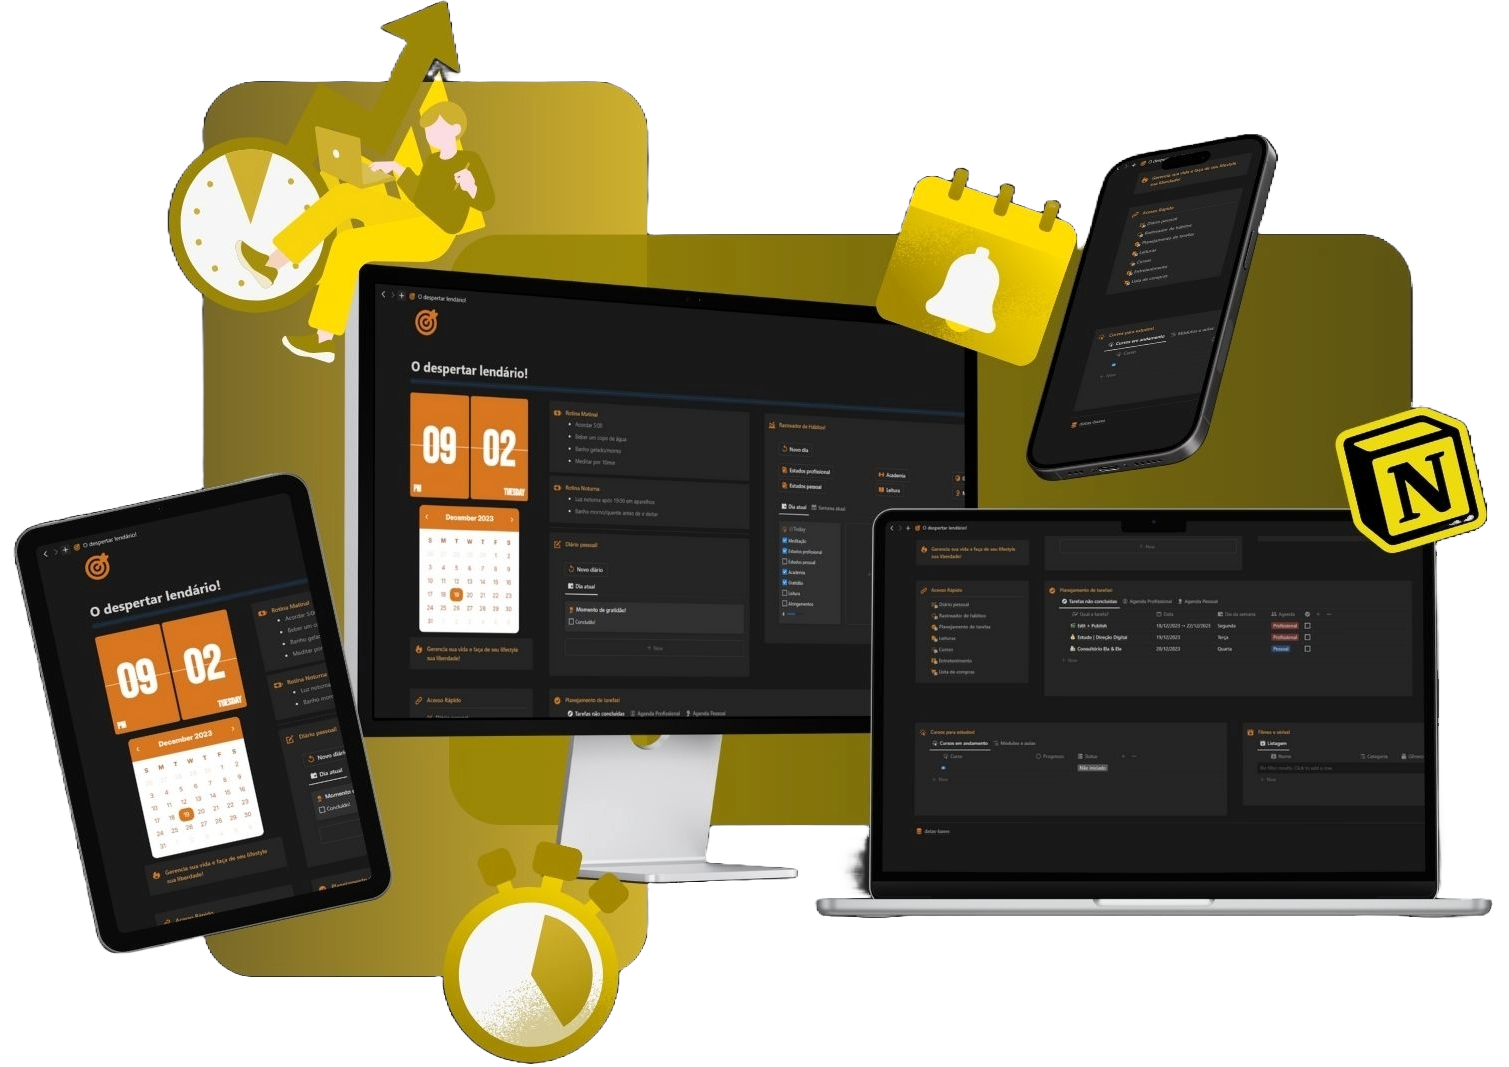
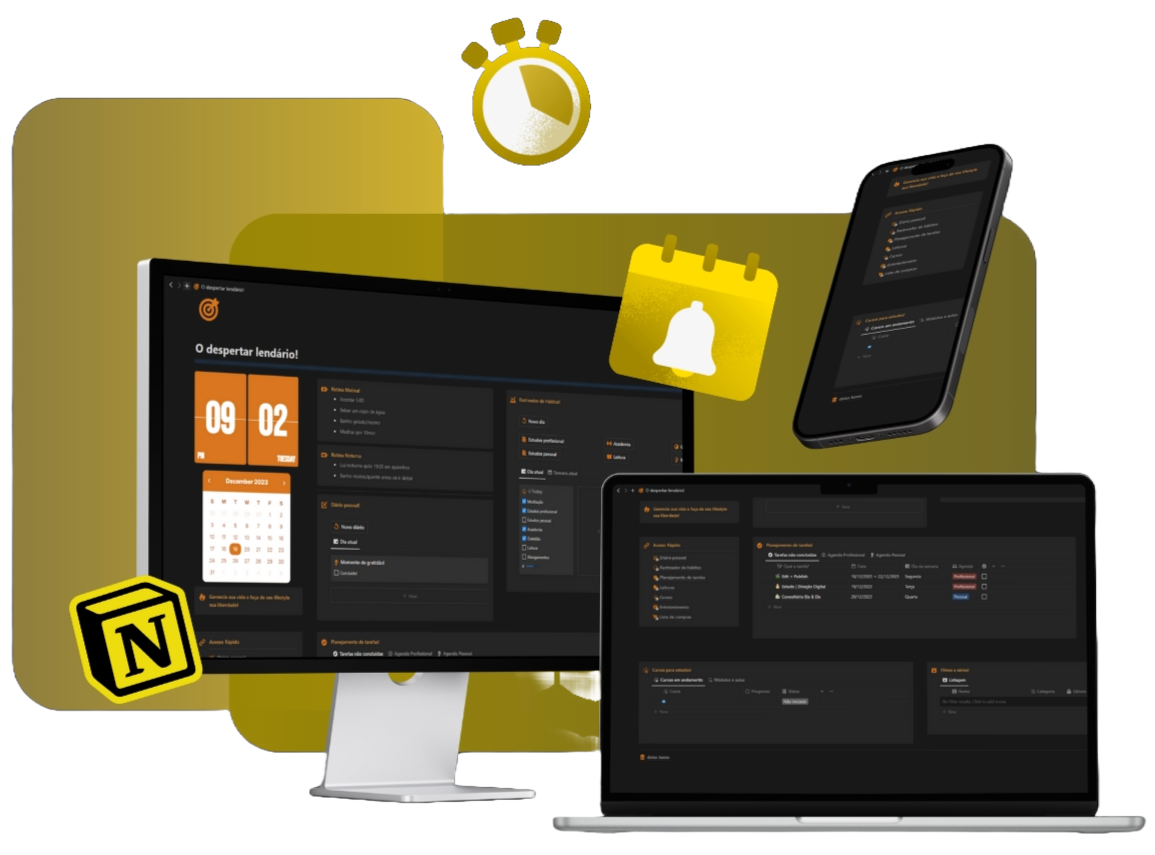
Updating illustrative image, and CTA button colors

diff --git a/src/components/about.tsx b/src/components/about.tsx
@@ -31,7 +31,7 @@ export const About = () => {
               <li><FaSquareCheck className="text-wellows mr-1 inline-block"/>Clareza de objetivos</li>
             </ul>
           </div>
-          <button className="bg-wellows hover:bg-golden-wellow duration-500 mt-10 px-20 h-12 rounded-xl text-white text-lg font-bold">QUERO ACESSAR AGORA!</button>
+          <button className="bg-wellows hover:bg-wellows/80 duration-500 mt-10 px-20 h-12 rounded-xl text-white text-lg font-bold">QUERO ACESSAR AGORA!</button>
         </div>
       </section>
 
@@ -39,9 +39,9 @@ export const About = () => {
         <h2 className="text-xl font-bold ">Um <strong className="text-golden-wellow underline">sistema para organização de vida</strong> em tempo recorde em um único lugar, foque seu tempo  no que realmente importa!</h2>
         
         <Image className="my-10 mx-auto"
-        src="/img03.jpg"
-        width={300}
-        height={300}
+        src="/img03.png"
+        width={400}
+        height={400}
         alt="Imagem ilustrativa"/>
 
         <div className="grid grid-cols-3 gap-4 text-white text-lg">
@@ -83,7 +83,7 @@ export const About = () => {
             <p>Suporte técnico e dedicado</p>
           </div>
         </div>
-        <button className="bg-wellows hover:bg-wellows/80 duration-500 shadow-wellows/70 shadow-lg mt-10 px-28 h-12 rounded-xl text-white text-lg font-bold">QUERO ACESSAR AGORA!</button>
+        <button className="bg-wellows hover:bg-wellows/80 duration-500 shadow-wellows/70 shadow-lg mt-10 px-36 h-12 rounded-xl text-white text-lg font-bold">QUERO ACESSAR AGORA!</button>
       </section>
     </>
   )

diff --git a/src/components/header.tsx b/src/components/header.tsx
@@ -11,7 +11,7 @@ export const Header = () => {
         width={500}
         height={500}
         alt="Imagem ilustrativa"/>
-        <button className="bg-wellows hover:bg-golden-wellow duration-500 shadow-golden-wellow/80 shadow-lg mt-10 px-14 h-12 rounded-xl text-white text-lg font-bold">QUERO ACESSAR AGORA!</button>
+        <button className="bg-wellows hover:bg-wellows/80 duration-500 shadow-wellows/70 shadow-lg mt-10 px-16 h-12 rounded-xl text-white text-lg font-bold">QUERO ACESSAR AGORA!</button>
       </div>
     </header>
   )
